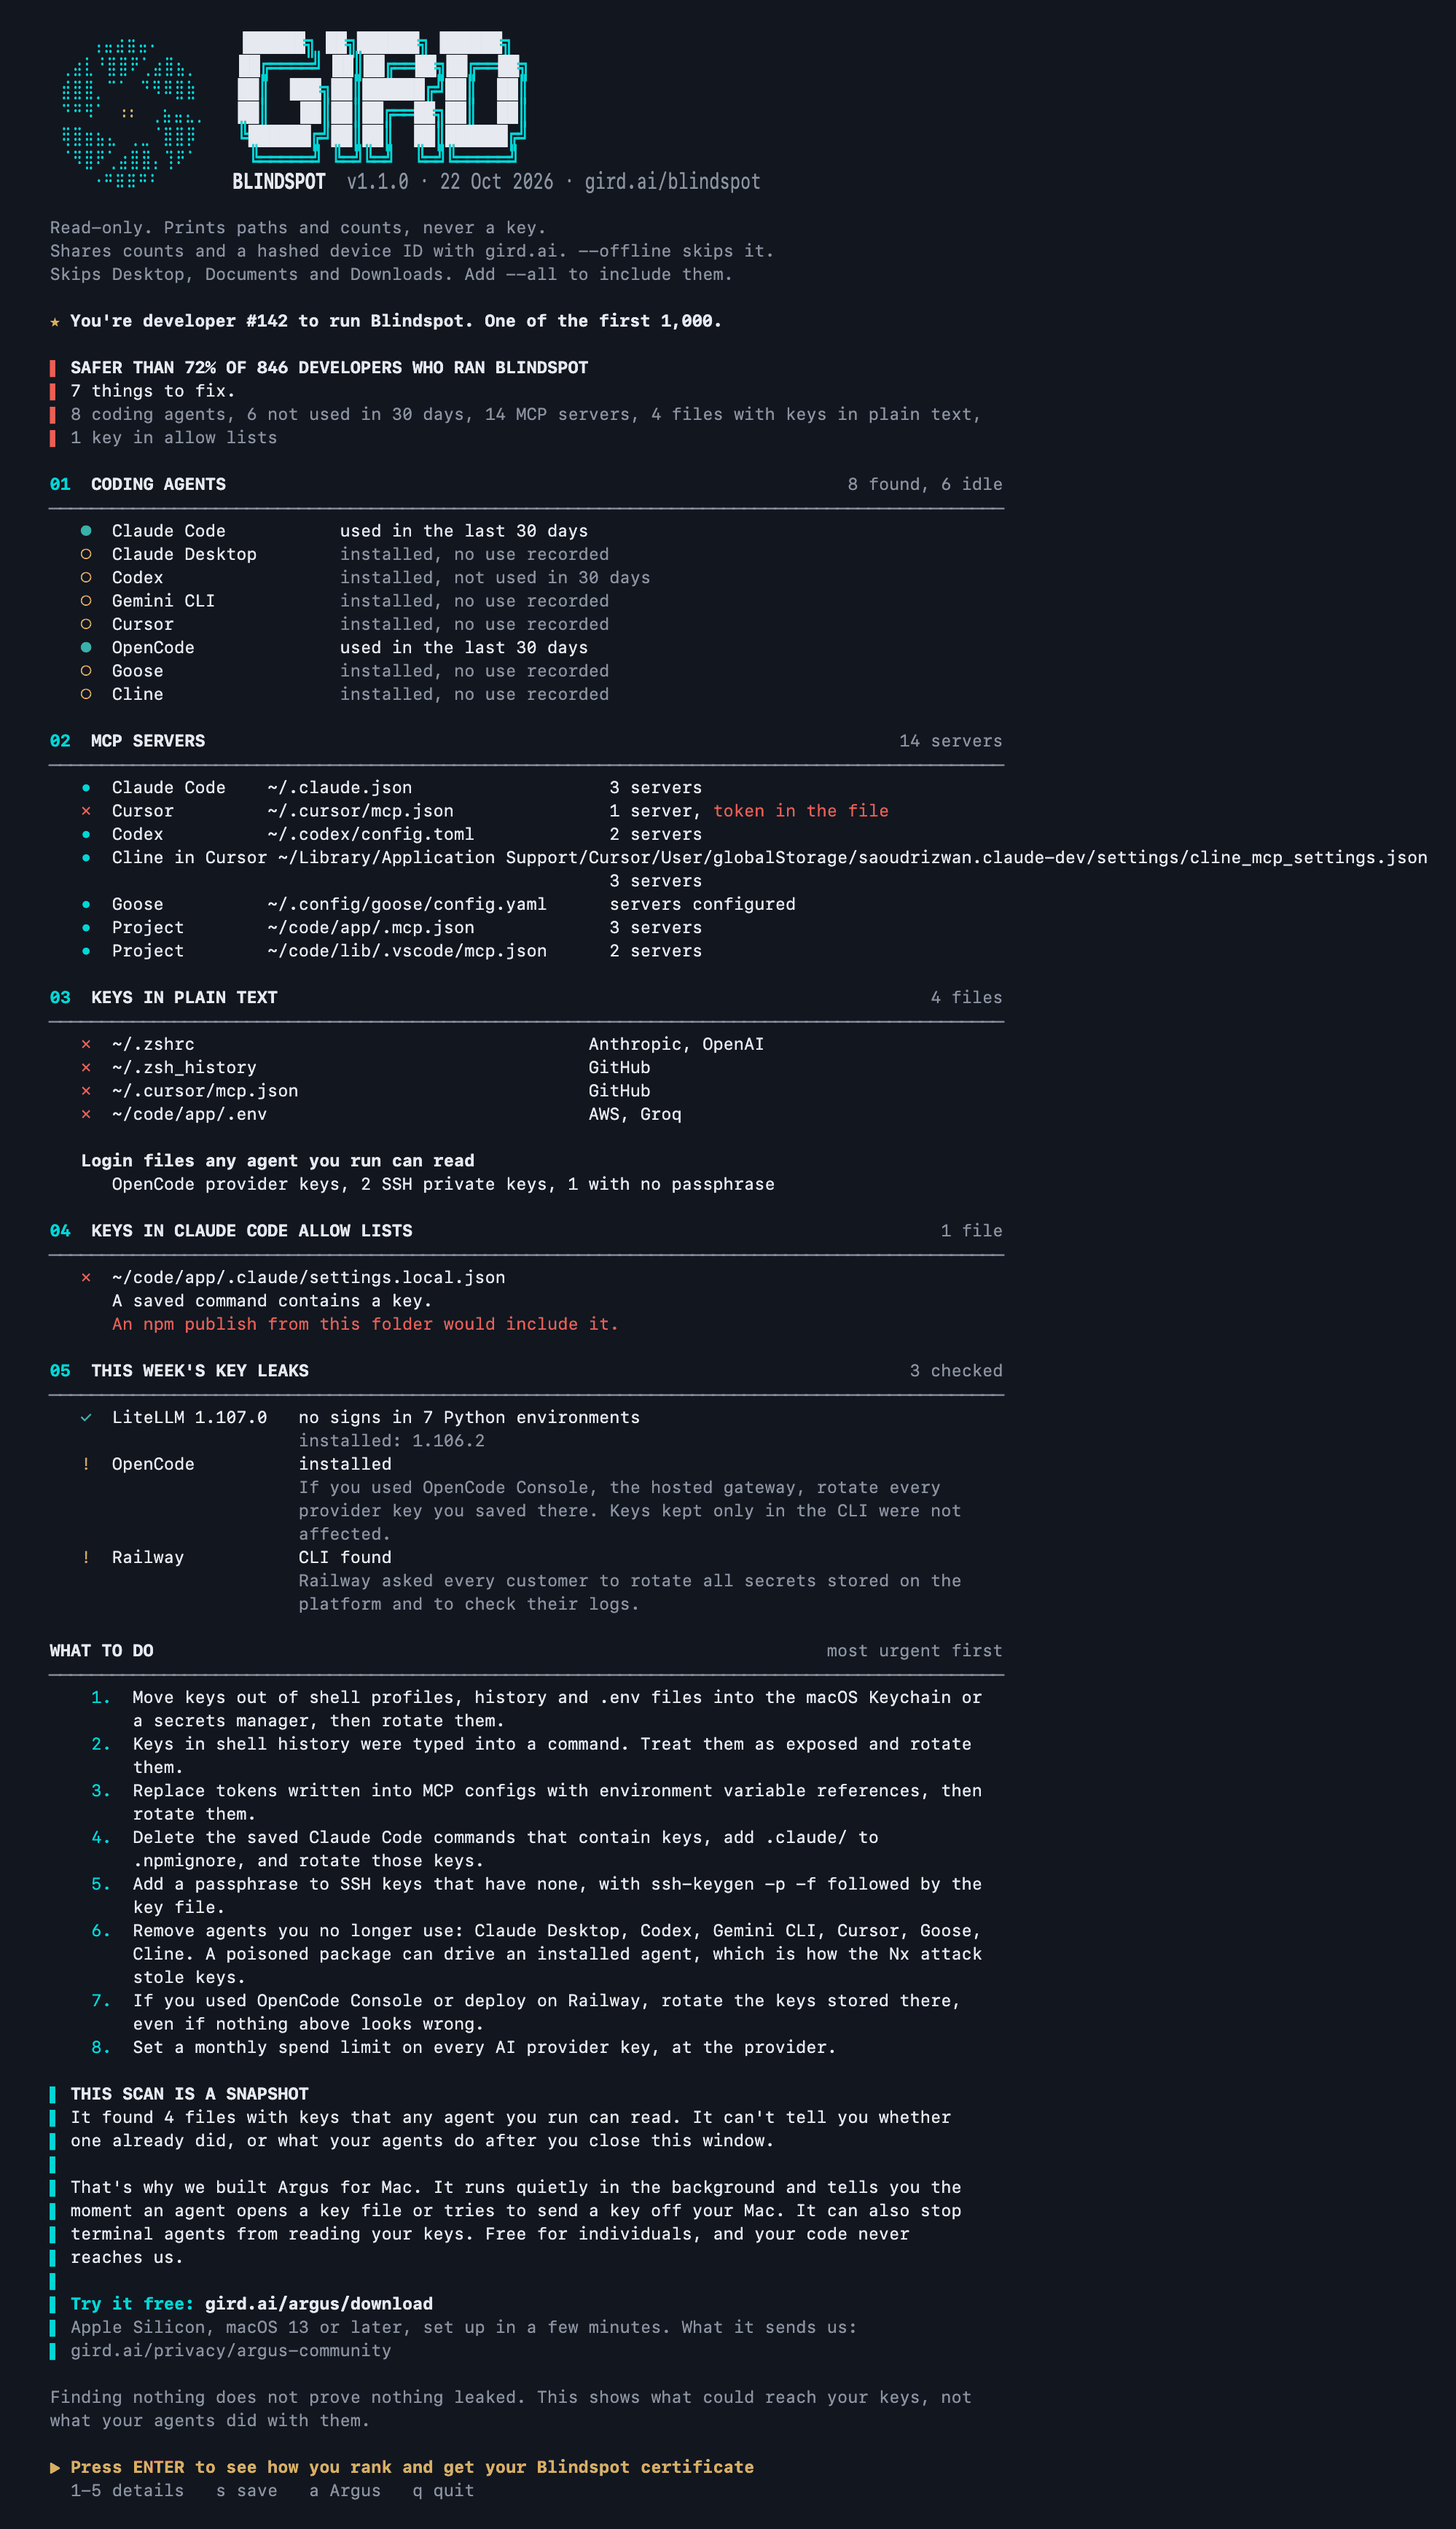
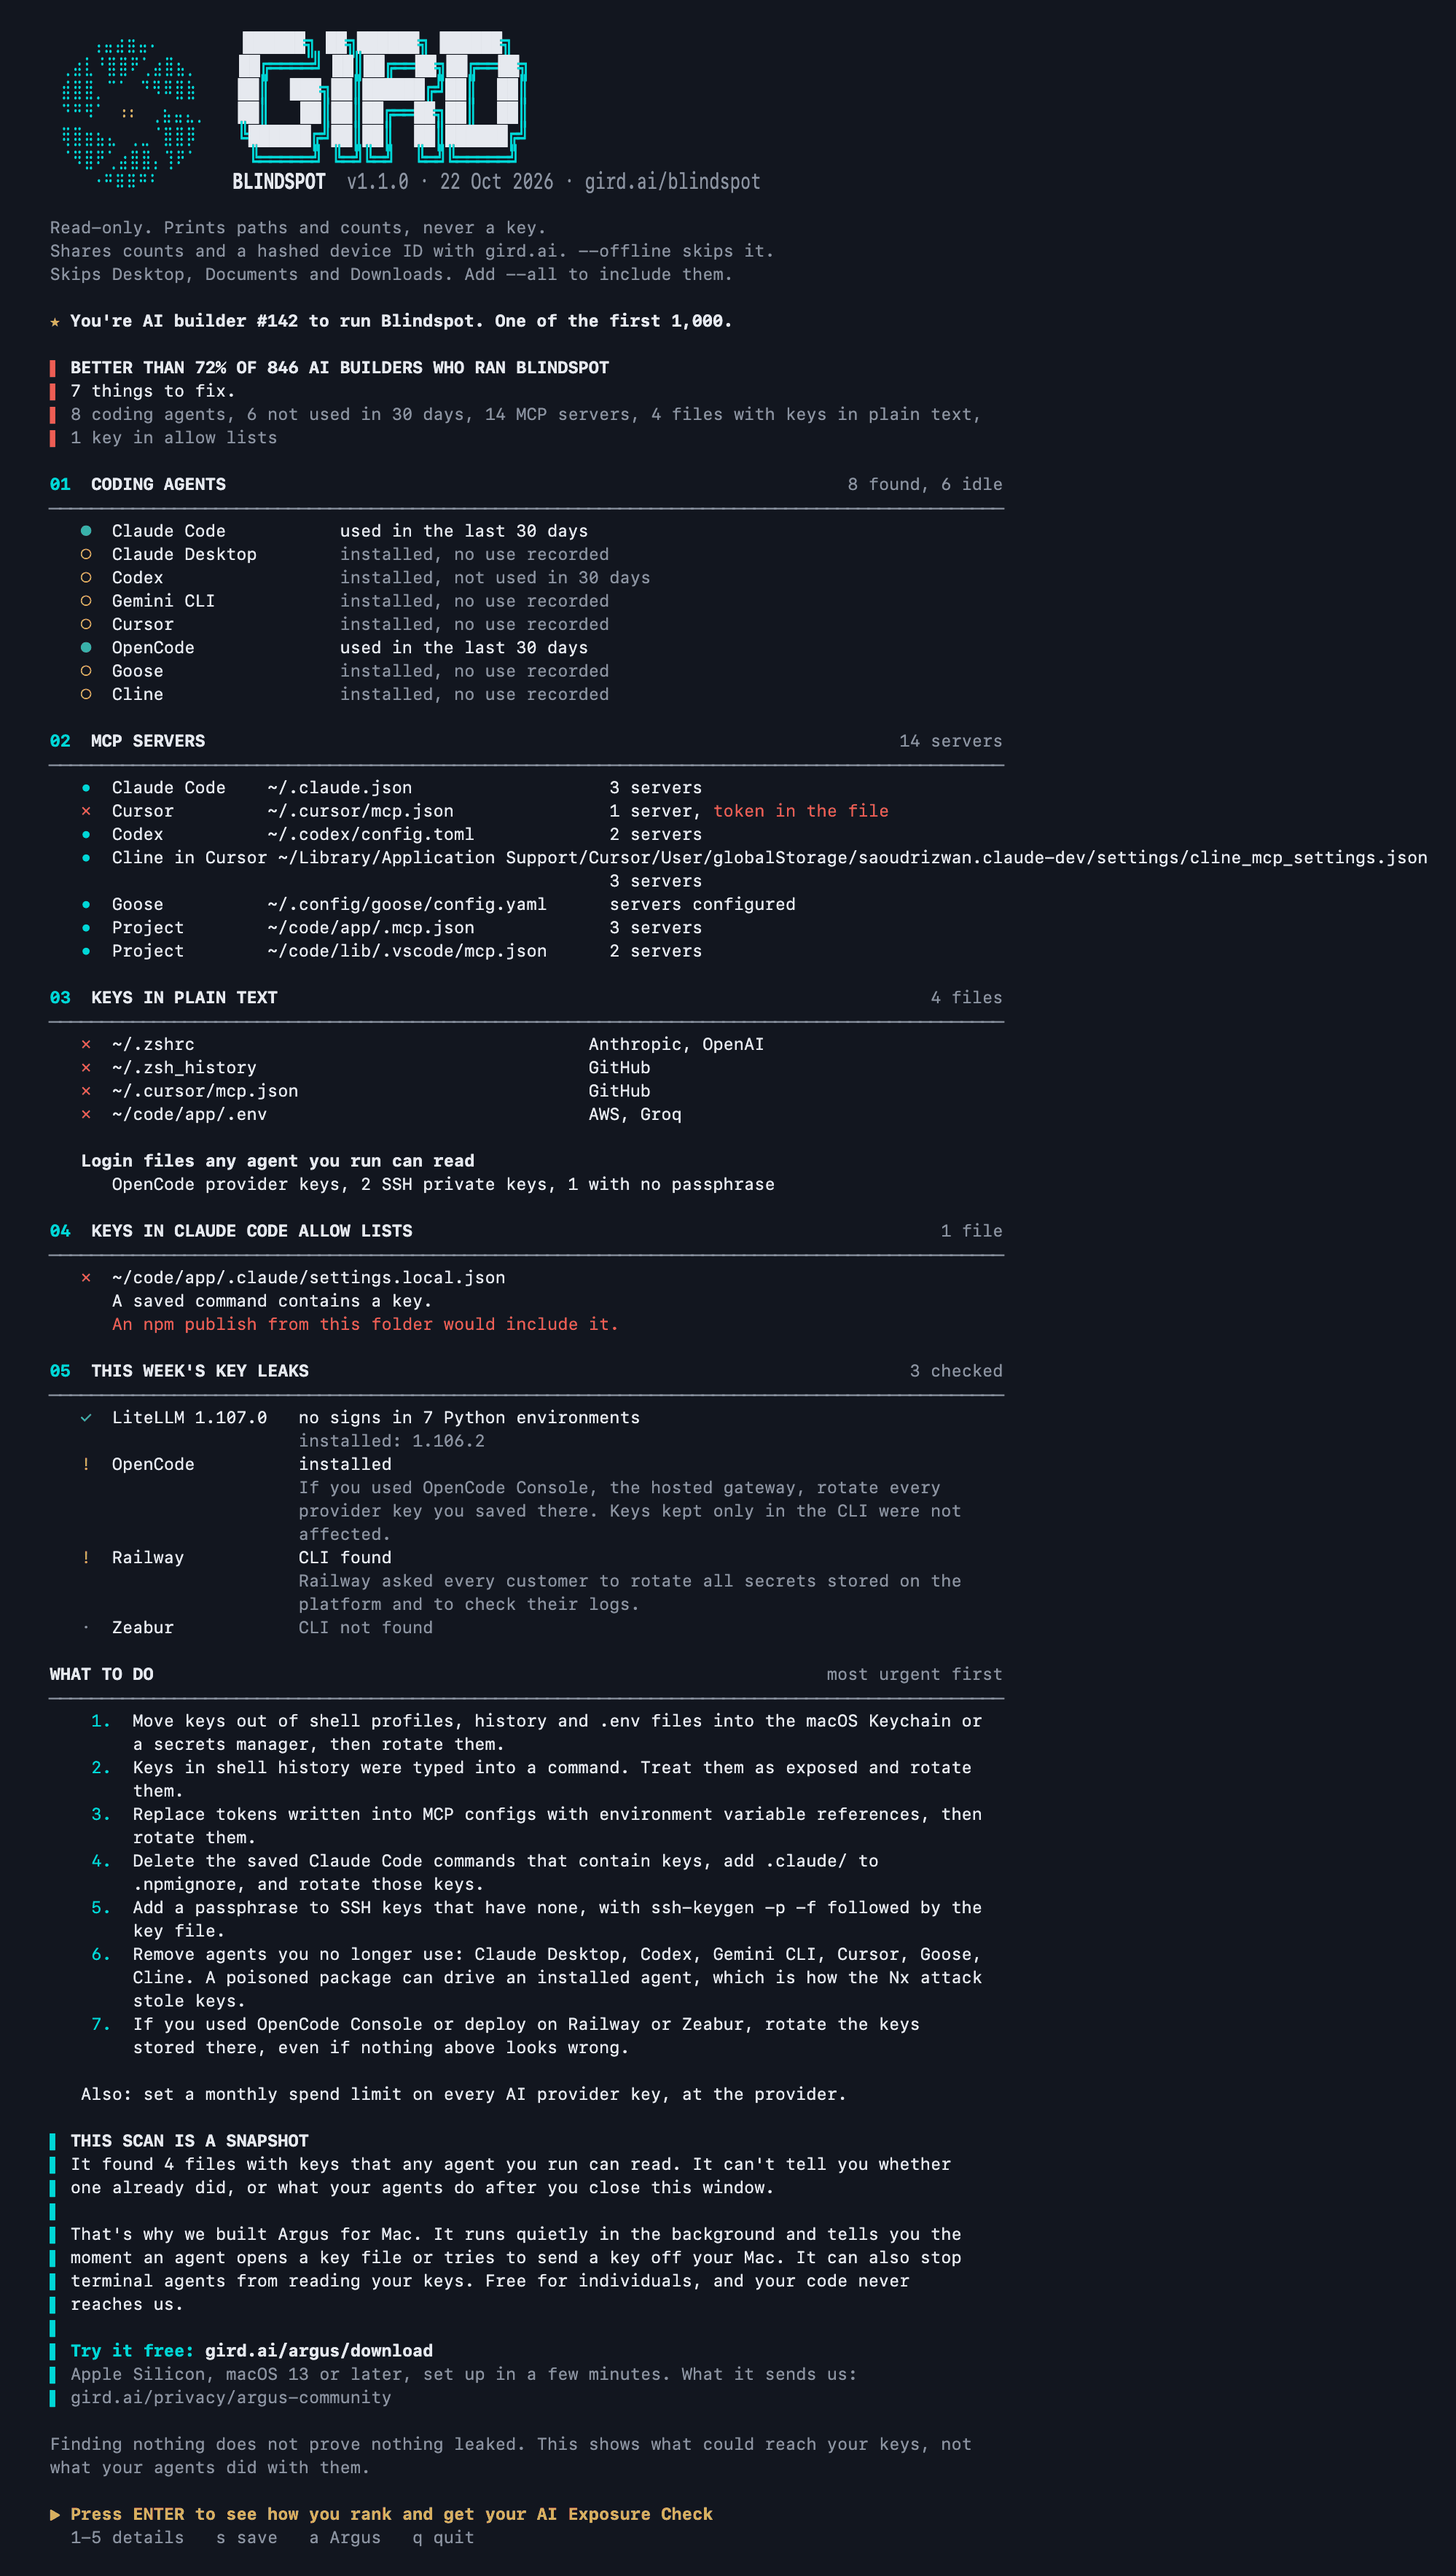
AI Exposure Check wording, AI builders, numbers past 1,000 (#7)
* Say "people", "AI builder" and "no findings" in the report

The report and screenshots say "people who ran Blindspot" instead of
developers, the early-rank line reads "You're AI builder #N", and a
scan with nothing in it says "No findings in this scan" and that it is
not a guarantee, instead of "Clean today". A leftover cook.pyc alone is
now a "possible leftover" to check, not an act-now hit; cook.pth,
cook.py, the 1.107.0 install record, the marker files and a running
loader still are.

* Keep the leftover pyc and the nothing-found wording honest

A leftover cook.pyc now also changes the live progress line, so it no
longer prints "No signs of the LiteLLM malware" above a "possible
leftover" result. The Argus box says "No findings in this scan" only
when the scan counted no fixes at all; any other fix without key files
or idle agents (an SSH key, OpenCode, a leftover pyc) now gets the
snapshot wording with the fix count. Tests cover both, using a copy of
the script that ignores idle agents because any Mac has one.

* Use a key-free home for the pyc-only test: the clean fixture holds keys

* Call the certificate the AI Exposure Check everywhere it is named

The ENTER prompt, the opened-in-browser line and the result link line
say "AI Exposure Check" or "result" instead of "certificate", in step
with the website. README, TELEMETRY and the screenshots follow. The
percentile threshold in TELEMETRY now says 2 people, matching the
Worker change.
[…]

diff --git a/README.md b/README.md
@@ -1,5 +1,5 @@
 <p align="center">
-  <a href="docs/report-full.png"><img src="docs/report.png" alt="A Blindspot run in a terminal: safer than 72% of 846 developers who ran it, developer #142 of the first 1,000, one line per check, and the prompt to get a certificate" width="760"></a>
+  <a href="docs/report-full.png"><img src="docs/report.png" alt="A Blindspot run in a terminal: better than 72% of 846 AI builders who ran it, AI builder #142, one of the first 1,000, one line per check, and the prompt to get your AI Exposure Check" width="760"></a>
 </p>
 
 # Blindspot
@@ -43,7 +43,7 @@ Please don't pipe it straight into a shell. Reading it first is the point.
 4. **Keys saved in Claude Code allow lists.** Click "always allow" on a command that has a key in it, and Claude Code saves the whole command in the project's settings file. Blindspot flags each one, and whether an npm publish from that folder would ship it.
 5. **That week's leaks.** Files left by the LiteLLM 1.107.0 malware in every Python environment it finds, the bad package in your uv cache, and what to rotate if you use OpenCode Console, Railway or Zeabur.
 
-At the end you get a short summary: how you compare with the other developers who ran it, one line per check, and the first thing to fix. The first 1,000 developers also get their number. Press 1 to 5 for the details of a check, s to save the full report, or ENTER for your Blindspot certificate: a page with your result, the steps to fix what it found, and a certificate image to post on LinkedIn or X. `--full` prints every detail instead, and so does running it into a file or a pipe.
+At the end you get a short summary: how you compare with the other AI builders who ran it, one line per check, and the first thing to fix. Everyone who shares their result gets a number, and the first 1,000 are marked. Press 1 to 5 for the details of a check, s to save the full report, or ENTER for your AI Exposure Check: a page with your result, the steps to fix what it found, and an image to post on LinkedIn or X. `--full` prints every detail instead, and so does running it into a file or a pipe.
 
 ## What it never does
 
@@ -55,7 +55,7 @@ At the end you get a short summary: how you compare with the other developers wh
 
 ## What it shares
 
-When it starts, it asks gird.ai for public totals, such as how many developers have run it. That request sends nothing else. When it finishes, it sends one report to gird.ai: the counts above, which agents, key providers and well-known MCP servers it saw (from fixed lists, so no name you typed is sent), where keys sit by kind of file, a few facts about your setup such as your terminal app and macOS version, and a hashed device ID so repeat runs can be counted. The reply says how your result compares and, for the first 1,000 devices, your number. The certificate link carries a random run ID, and the certificate page sends it back only when you press a share button. Every field is listed in [TELEMETRY.md](TELEMETRY.md). Run it with `--offline`, or set `DO_NOT_TRACK=1`, and it makes no requests at all.
+When it starts, it asks gird.ai for public totals, such as how many AI builders have run it. That request sends nothing else. When it finishes, it sends one report to gird.ai: the counts above, which agents, key providers and well-known MCP servers it saw (from fixed lists, so no name you typed is sent), where keys sit by kind of file, a few facts about your setup such as your terminal app and macOS version, and a hashed device ID so repeat runs can be counted. The reply says how your result compares and your number. The result link carries a random run ID, and the result page sends it back only when you press a share button. Every field is listed in [TELEMETRY.md](TELEMETRY.md). Run it with `--offline`, or set `DO_NOT_TRACK=1`, and it makes no requests at all.
 
 ## GIRD Runner
 

diff --git a/TELEMETRY.md b/TELEMETRY.md
@@ -17,7 +17,7 @@ File paths, file names, keys, key fragments, MCP server names that aren't on the
 | Field | Example | What it is |
 |---|---|---|
 | `v`, `kind` | `"1"`, `"report"` | Format version and event type |
-| `run_id` | `"4b78c51d64d15aa0"` | Random for each run. Links a report to its actions event and to shares from its certificate |
+| `run_id` | `"4b78c51d64d15aa0"` | Random for each run. Links a report to its actions event and to shares from its result page |
 | `device_id` | 64 hex characters | One-way SHA-256 of your Mac's hardware UUID (Linux: `/etc/machine-id`), salted with `gird-check-v1:`. Lets us count repeat runs. It can't be turned back into the hardware ID |
 | `script` | `"1"` | Script version |
 | `os`, `arch`, `model` | `"macOS 26.4"`, `"arm64"`, `"MacBookPro18,1"` | macOS version, processor type, Mac model identifier |
@@ -48,19 +48,19 @@ File paths, file names, keys, key fragments, MCP server names that aren't on the
 | Field | What it is |
 |---|---|
 | `run_id`, `device_id` | Same as the report |
-| `saved`, `card`, `argus` | Whether you saved the report, opened your certificate or opened the Argus download page |
+| `saved`, `card`, `argus` | Whether you saved the report, opened your result or opened the Argus download page |
 | `menu_seconds` | Time spent in the menu |
 
 ## What comes back
 
 | From | Example | What it is |
 |---|---|---|
-| The totals | `{"devices":1234,"devices_7d":456,"key_files":3412,"clean":0.31,...}` | Public totals, the same for everyone. The script shows one of them under the banner. Until 1,000 developers have run it, it shows none, and says you're one of the first 1,000 above your result instead |
-| The reply to the report | `{"p":72,"n":1234,"r":142}` | `p` is the share of developers whose latest run scored lower than yours, `n` how many developers that is. No `p` until at least 25 developers have run it. `r` is your place in line: 142 means 141 devices ran it before yours. Only the first 1,000 get one, and the script shows it above your result |
+| The totals | `{"devices":1234,"devices_7d":456,"key_files":3412,"clean":0.31,...}` | Public totals, the same for everyone. The script shows one of them under the banner. Until 1,000 AI builders have run it, it shows none, and says you're one of the first 1,000 above your result instead |
+| The reply to the report | `{"p":72,"n":1234,"r":142}` | `p` is the share of AI builders whose latest run scored lower than yours, `n` how many AI builders that is. No `p` until at least 25 have run it. `r` is your place in line: 142 means 141 devices ran it before yours. Every device gets one, and the script shows it above your result, saying "One of the first 1,000" up to 1,000 |
 
-The script reads only digits from either reply, so a reply can't put anything else on your screen. The certificate link carries `p`, `n` and `r` after the `#`, which browsers never send to a server.
+The script reads only digits from either reply, so a reply can't put anything else on your screen. The result link carries `p`, `n` and `r` after the `#`, which browsers never send to a server.
 
-The certificate link also carries the run's random ID, the `run_id` from the report. When someone presses a share button, the certificate page sends that ID back with which button and what kind of result, nothing else. With `--offline` the link has no run ID.
+The result link also carries the run's random ID, the `run_id` from the report. When someone presses a share button, the result page sends that ID back with which button and what kind of result, nothing else. With `--offline` the link has no run ID.
 
 ## On our side
 

diff --git a/CHANGELOG.md b/CHANGELOG.md
@@ -2,9 +2,12 @@
 
 ## Unreleased
 
+- Wording: the report and the result page say "AI builders" where they said "developers", "Better than" where they said "Safer than", the early-rank label is "AI builder", and a result with nothing in it reads "No findings in this scan" with a note that it is not a guarantee. What used to be called the certificate is now your "AI Exposure Check": the prompt, the result link and the image say so, and the image no longer says it was verified.
+- Every device gets its number, not only the first 1,000: "You're AI builder #1,234 to run Blindspot." Up to 1,000 it adds "One of the first 1,000."
+- A leftover `cook.pyc` alone is now a "possible leftover" to check, not an act-now hit. `cook.pth`, `cook.py`, the 1.107.0 install record, the marker files or a running loader still are.
 - The spend-limit tip is a plain line under "What to do", no longer a numbered item, so the list matches the "things to fix" count in the header.
 - MCP servers found inside plugin folders and caches (Codex's `.tmp/plugins`, Claude's `plugins` folder) are counted apart, such as "9 servers, 50 more in plugin folders", and shown as one line in the details. They no longer inflate the server count, and they are left out of the counts the script shares. A token written into one of those files is still flagged.
-- Zeabur joins OpenCode and Railway in the check for this week's leaks: if the Zeabur CLI or its settings folder is on your Mac, it says to rotate the keys stored there. A leftover compiled `cook` file from the LiteLLM malware now counts as a sign of it, even after `cook.py` was deleted.
+- Zeabur joins OpenCode and Railway in the check for this week's leaks: if the Zeabur CLI or its settings folder is on your Mac, it says to rotate the keys stored there. A leftover compiled `cook` file from the LiteLLM malware, which stays behind after `cook.py` is deleted, is reported as a possible leftover to check.
 - Your number among the first 1,000 now sits on its own line above your result, not inside it, and is the only line that mentions the first 1,000. Until 1,000 developers have run it, the line under the banner is left out.
 - A scan that finishes within about two seconds goes straight to the results. The game only appears when the scan is still running after that, instead of flashing up for a moment.
 - The advice for keys in plain text names the place to keep them for your system: the macOS Keychain on a Mac, GNOME Keyring or KWallet on Linux, Windows Credential Manager under Git Bash, MSYS or Cygwin, and a secrets manager anywhere else.
